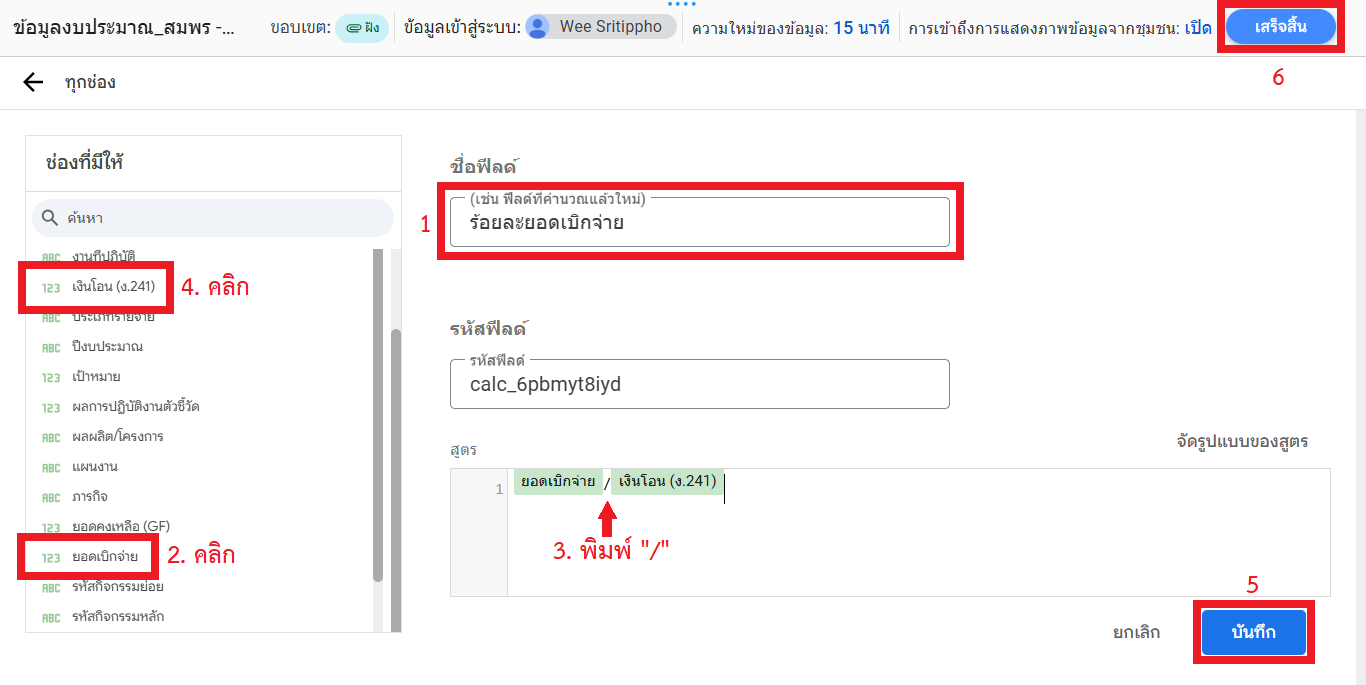
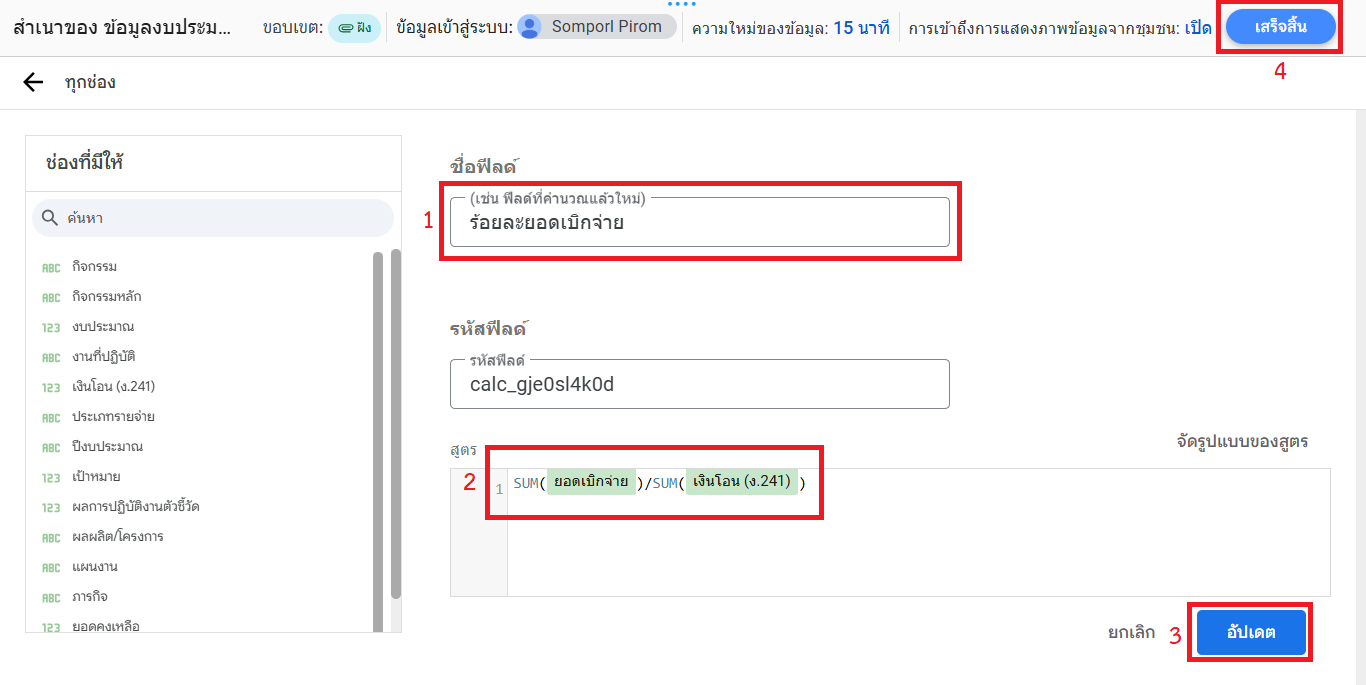
fix incorrect formula

diff --git a/docs/workshop-3.md b/docs/workshop-3.md
@@ -85,7 +85,7 @@
     ![เพิ่มฟิลด์ที่คำนวณแล้ว](img/ws3-s4-1.png){ width="400" }
 
 2. ตั้งชื่อฟิลด์ (Field Name) ว่า `ร้อยละยอดเบิกจ่าย`
-3. ในช่องสูตร (Formula) พิมพ์สูตรดังนี้: `ยอดเบิกจ่าย/เงินโอน (ง.241)`
+3. ในช่องสูตร (Formula) พิมพ์สูตรดังนี้: `SUM(ยอดเบิกจ่าย)/SUM(เงินโอน (ง.241))`
     *(ให้คลิกเลือกฟิลด์จากรายการเพื่อให้แน่ใจว่าชื่อฟิลด์ถูกต้อง)*
 4. กด **บันทึก (Save)** และ **เสร็จสิ้น (Done)**
 
